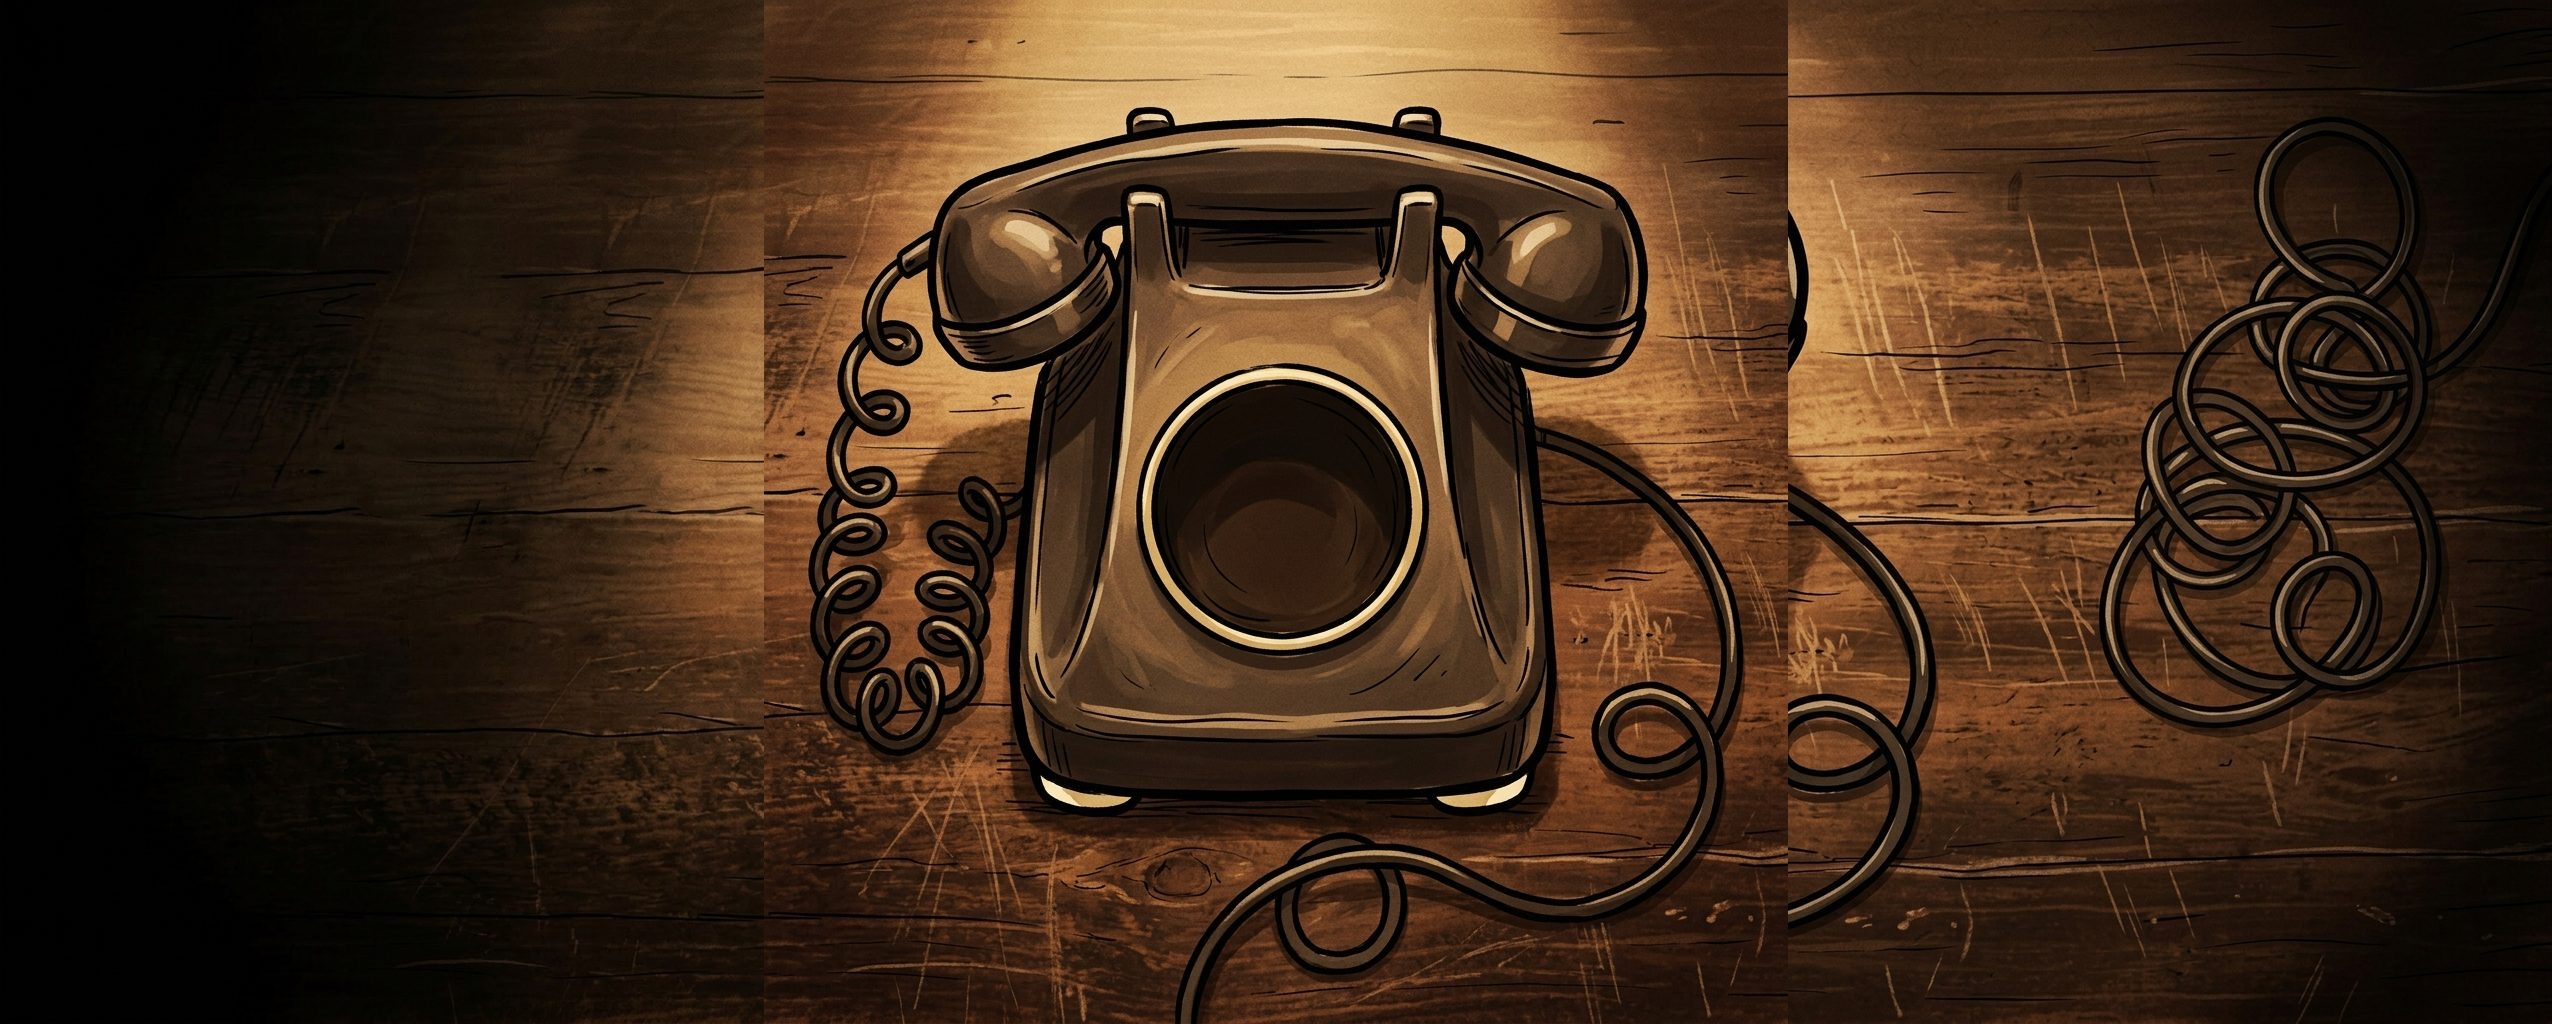
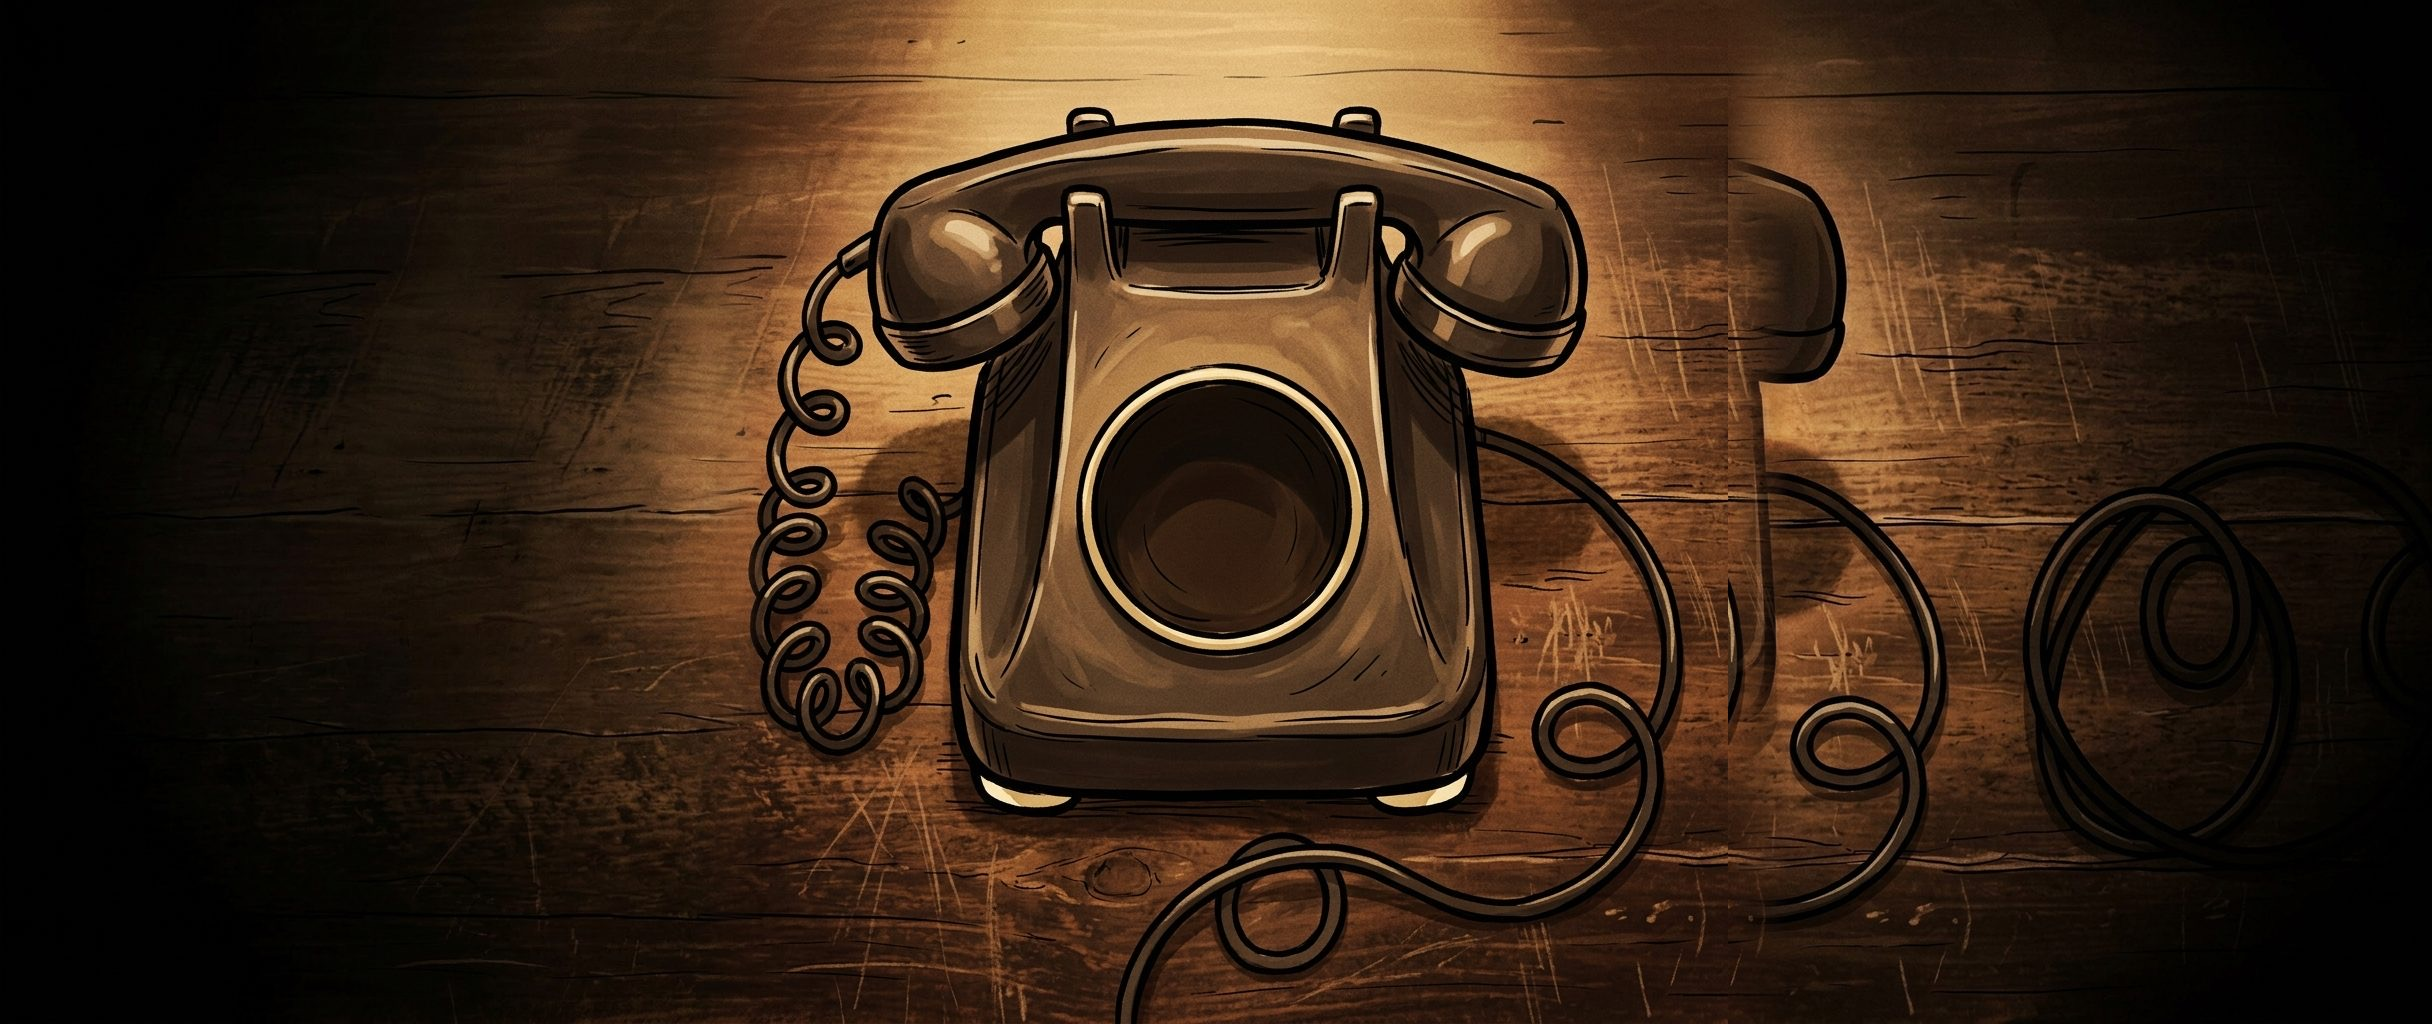
Revert to the good fullscreen desk version (18a8982)

Changed region(s): [[0.2188, 0.0, 1.0, 1.0]]

diff --git a/404.html b/404.html
@@ -25,13 +25,13 @@
     .l-body.ringing img { animation:shake .08s linear infinite; }
     @keyframes shake { 0%,100%{transform:rotate(0)} 25%{transform:rotate(-1.5deg)} 75%{transform:rotate(1.5deg)} }
 
-    .l-numplate { position:absolute; width:220px; height:220px; top:48%; left:50.0%; transform:translate(-50%,-50%); z-index:2; overflow:hidden; border-radius:50%; clip-path:circle(48%); }
+    .l-numplate { position:absolute; width:220px; height:220px; top:48%; left:50%; transform:translate(-50%,-50%); z-index:2; overflow:hidden; border-radius:50%; clip-path:circle(48%); }
     .numplate-bg { position:absolute; inset:0; background:radial-gradient(circle, #f5f0e0 0%, #ebe5d0 80%, #c0b898 100%); border-radius:50%; border:none; box-shadow:inset 0 2px 8px rgba(0,0,0,0.15); }
     
     .sticker { position:absolute; width:48px; height:48px; transform:translate(-50%,-50%); pointer-events:none; }
     .sticker img { width:100%; height:100%; object-fit:contain; filter:drop-shadow(0 2px 4px rgba(0,0,0,0.2)); }
 
-    .l-finger { position:absolute; width:255px; height:255px; top:48%; left:50.0%; transform:translate(-50%,-50%); z-index:3; cursor:grab; user-select:none; }
+    .l-finger { position:absolute; width:255px; height:255px; top:48%; left:50%; transform:translate(-50%,-50%); z-index:3; cursor:grab; user-select:none; }
     .l-finger.grabbing { cursor:grabbing; }
     .l-finger img { width:100%; height:100%; object-fit:contain; }
 
@@ -202,7 +202,7 @@
 
     function ma(e) {
       var r = wrap.getBoundingClientRect();
-      var x = (e.touches ? e.touches[0].clientX : e.clientX) - r.left - r.width*0.500;
+      var x = (e.touches ? e.touches[0].clientX : e.clientX) - r.left - r.width*0.50;
       var y = (e.touches ? e.touches[0].clientY : e.clientY) - r.top - r.height*0.48;
       return Math.atan2(y, x) * 180 / Math.PI;
     }
